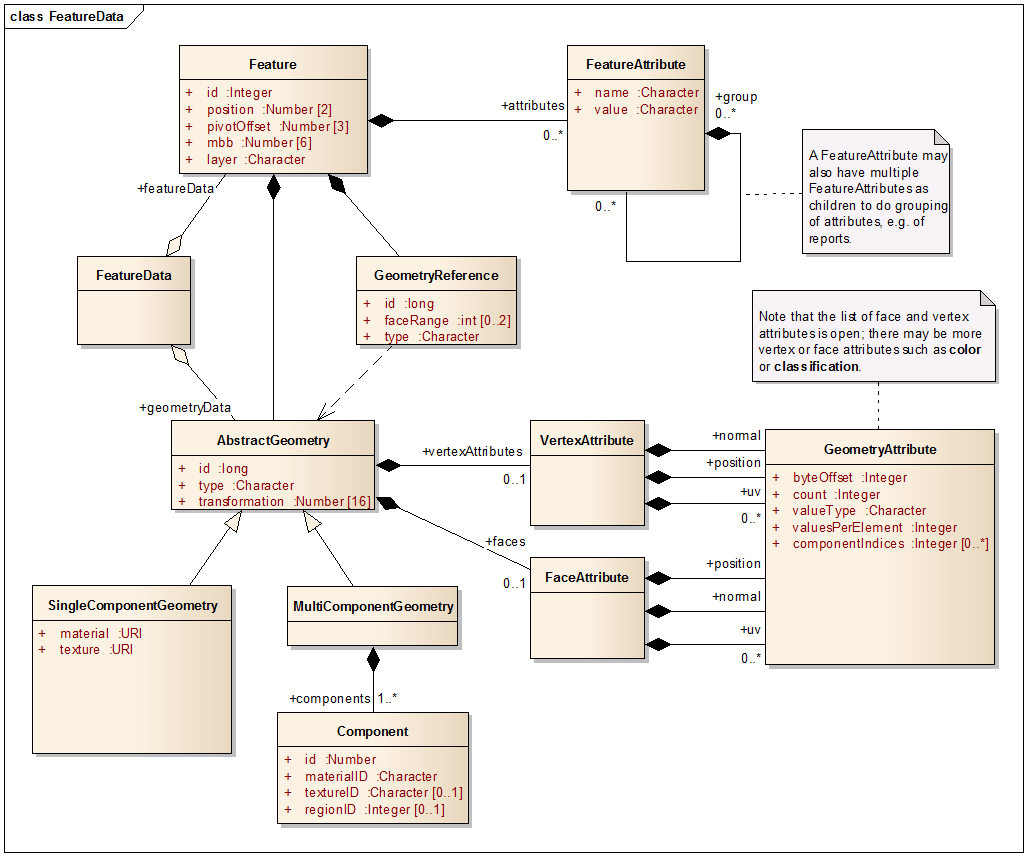
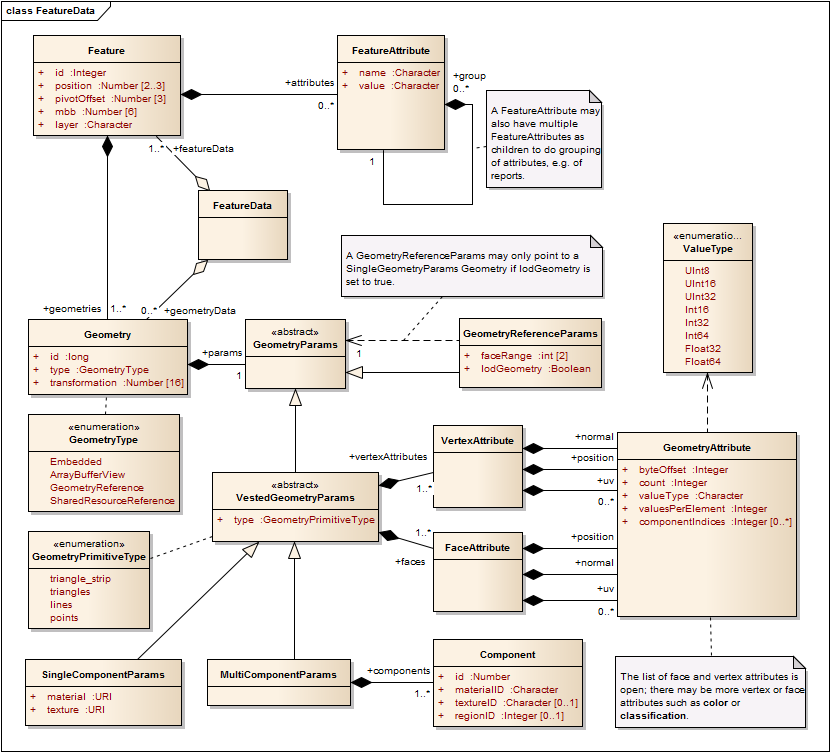
Updated FeatureData specification in format/Indexed 3d Scene Format Specification.md and in rules for features-meshes

diff --git a/profiles/features-meshes/examples/FeatureData.js b/profiles/features-meshes/examples/FeatureData.js
@@ -11,6 +11,7 @@
 			"layer": "Public Building", // links this feature to a defined layer.
 			"geometries": [ // Geometry defintion including materials; note that one Feature can have multiple geometries
 				{
+					"id": 34532534,
 					"type": "ArrayBufferView", // type denotes whether the following geometry is defined by using array buffer views (ArrayBufferView), as a reference to a shared Resource (SharedResourceReference) or embedded (Embedded).
 					"transformation" : [1.0, 0.0, 0.0, 0.0, 0.0, 1.0, 0.0, 0.0, 0.0, 0.0, 1.0, 0.0, 0.0, 0.0, 0.0, 1.0], // linearized 4x4 transformation matrix. Elements 13-15 of the 16 indicate the translational component.
 					"params": { 
@@ -95,8 +96,10 @@
 				}
 			],
 			"attributes": [
-				{
-					"metadata": [ // Special group for default attributes and other metadata.
+				{ // Special group for default attributes and other metadata.
+					"name": "metadata",
+					"value": null,
+					"group": [ 
 						{
 							"name": "OID",
 							"value": 34983

diff --git a/format/Indexed 3d Scene Format Specification.md b/format/Indexed 3d Scene Format Specification.md
@@ -999,8 +999,8 @@ representative of a feature present in the real, geographic world.
 	</tr>
 	<tr>
 		<td>position</td>
-		<td>Float[3]</td>
-		<td>An array of three doubles, giving the x,y,z (easting/northing/elevation) position of this feature's minimum bounding sphere center, in the projectedCRS.</td>
+		<td>Float[2..3]</td>
+		<td>An array of two or three doubles, giving the x,y(,z) (easting/northing/elevation) position of this feature's minimum bounding sphere center, in the projectedCRS.</td>
 	</tr>
 	<tr>
 		<td>pivotOffset</td>
@@ -1017,13 +1017,23 @@ representative of a feature present in the real, geographic world.
 		<td>String</td>
 		<td>The name of the Feature Class this feature belongs to.</td>
 	</tr>
+	<tr>
+		<td>attributes</td>
+		<td>FeatureAttribute[0..*]</td>
+		<td>The list of GIS attributes the feature has.</td>
+	</tr>
+	<tr>
+		<td>geometries</td>
+		<td>Geometry[1..*]</td>
+		<td>The list of geometries the feature has. A feature always has at least one Geometry.</td>
+	</tr>
 </table>
 
 <p><em>Table 14: Attributes of the Class <strong>Feature</strong> within the FeatureData document</em></p>
 
 <h4>Class FeatureAttribute</h4>
 
-<p>A FeatureAttribute is a field carrying a value.</p>
+<p>A FeatureAttribute is a field carrying a value. This value may also be a list of complete attributes, to be used with reports or metadata.</p>
 
 <table>
 	<tr>
@@ -1039,15 +1049,20 @@ representative of a feature present in the real, geographic world.
 	<tr>
 		<td>value</td>
 		<td>String</td>
-		<td>The value of the attribute.</td>
+		<td>The value of the attribute. If group is set and the type of this attribute is set to esriFieldTypeGroup, the value may be used as a label.</td>
+	</tr>
+	<tr>
+		<td>group</td>
+		<td>FeatureAttribute[0..*]</td>
+		<td>A list of FeatureAttributes belonging to a attribute value group.</td>
 	</tr>
 </table>
 
 <p><em>Table 15: Attributes of the Class <strong>FeatureAttribute</strong> within the FeatureData document</em></p>
 
-<h4>Class AbstractGeometry</h4>
+<h4>Class Geometry</h4>
 
-<p>This is the superclass for all types of geometry definitions used in i3s.</p>
+<p>This is the common container class for all types of geometry definitions used in i3s.</p>
 
 <table>
 	<tr>
@@ -1070,21 +1085,103 @@ representative of a feature present in the real, geographic world.
 		<td>Float[16]</td>
 		<td>3D (4x4) transformation matrix expressed as a linear array of 16 values.</td>
 	</tr>
+	<tr>
+		<td>params</td>
+		<td>GeometryParams</td>
+		<td>The parameters for a geometry, as an Embedded GeometryParams object, an ArrayBufferViewa GeometryReference object, or a SharedResourceReference object.</td>
+	</tr>
 </table>
 
-<p><em>Table 16: Attributes of the Class <strong>AbstractGeometry</strong> within the FeatureData document</em></p>
+<p><em>Table 16: Attributes of the Class <strong>Geometry</strong> within the FeatureData document</em></p>
 
-<h4>Class MultiComponentGeometry</h4>
+<h4>Class GeometryParams</h4>
 
-Objects of this type extend AbstractGeometry and include a definition of a geometry that may have
+This is the abstract parent class for all GeometryParams classes (GeometryReferenceParams, VestedGeometryParamas, SingleComponentParams, MultiComponentParams). It does not have properties of its own.
+
+<h4>Class GeometryReferenceParams</h4>
+
+Instead own owning a Geometry exclusively, a Feature can also reference a (part of a) Geometry defined for the node. This allows to pre-aggregate Geometries for many features. In this case, a GeometryReferenceParams has to be used.
+
+<table>
+	<tr>
+		<td><strong>Name</strong></td>
+		<td><strong>Type</strong></td>
+		<td><strong>Description</strong></td>
+	</tr>
+	<tr>
+		<td>$ref</td>
+		<td>Pointer</td>
+		<td>In-document absolute reference to full geometry definition (Embedded or ArrayBufferView) using the <a href="">i3s json pointer</a> syntax.</td>
+	</tr>
+	<tr>
+		<td>faceRange</td>
+		<td>Integer[2]</td>
+		<td>Inclusive range of faces in this geometry that belongs to this feature.</td>
+	</tr>
+	<tr>
+		<td>lodGeometry</td>
+		<td>Boolean</td>
+		<td>True if this geometry participates in a LoD tree (thus, always true in meshpyramids); indicates that the referenced Geometry has no components and only a single material.</td>
+	</tr>
+</table>
+
+<p><em>Table 17: Attributes of the Class <strong>GeometryReferenceParams</strong> within the FeatureData document</em></p>
+
+<h4>Class VestedGeometryParams</h4>
+
+<p>This Class extends GeometryParams and is the abstract parent class for all concrete ("vested") GeometryParams classes that directly contain a Geometry definition, either as an ArrayBufferView or as an Embedded Geometry, with either SingleComponentParams or MultiComponentParams.</p>
+
+<table>
+	<tr>
+		<td><strong>Name</strong></td>
+		<td><strong>Type</strong></td>
+		<td><strong>Description</strong></td>
+	</tr>
+	<tr>
+		<td>type</td>
+		<td>String</td>
+		<td>The primitive type of the geoemtry defined through a VestedGeometryParams object. One of {*triangles*, lines, points, triangle_strip}</td>
+	</tr>
+	<tr>
+		<td>vertexAttributes</td>
+		<td>VertexAttribute[1..*]</td>
+		<td>A list of Vertex Attributes, such as Position, Normals, UV coordinates, and their definitions. 
+		While there are standard keywords such as <code>position</code>, <code>uv0..uv9</code>, <code>normal</code> and <code>color</code>, this is an open, extendable list.</td>
+	</tr>
+	<tr>
+		<td>faces</td>
+		<td>FaceAttribute[0..*]</td>
+		<td>A list of Face Attributes, such as indices to build faces, and their definitions. 
+		While there are standard keywords such as <code>position</code>, <code>uv0..uv9</code>, <code>normal</code> and <code>color</code>, this is an open, extendable list.</td>
+	</tr>
+</table>
+
+<p><em>Table 18: Attributes of the Class <strong>VestedGeometryParams</strong> within the FeatureData document</em></p>
+
+<h4>Class MultiComponentParams</h4>
+
+<p>Objects of this type extend VestedGeometryParams and include a definition of a geometry that may have
 multiple materials, textures, or use multiple regions from a texture. One
-Feature can have multiple geometries, which can consist of multiple components.
-They do not have additional fields, only references to <a href="#_7_4_Components">Components</a>.</p>
+Feature can have multiple geometries, which can consist of multiple components.</p>
 
+<table>
+	<tr>
+		<td><strong>Name</strong></td>
+		<td><strong>Type</strong></td>
+		<td><strong>Description</strong></td>
+	</tr>
+	<tr>
+		<td>components</td>
+		<td>Component[1..*]</td>
+		<td>A MultiComponentParams geometry can have multiple components, e.g. to assign multiple materials (i.e. glass for windows, brick texture for walls, ...). Not used with LoD aggregate geometries.</td>
+	</tr>
+</table>
+
+<p><em>Table 19: Attributes of the Class <strong>MultiComponentParams</strong> within the FeatureData document</em></p>
+	
 <h4>Class SingleComponentGeometry</h4>
 
-Objects of this type extend AbstractGeometry and use only one texture and one material. Components may
-only be declared to denote subimage regions.</p>
+Objects of this type extend VestedGeometryParams and use only one texture and one material. They do not contain components.</p>
 
 <table>
 	<tr>
@@ -1104,7 +1201,7 @@ only be declared to denote subimage regions.</p>
 	</tr>
 </table>
 
-<p><em>Table 17: Attributes of the Class <strong>FeatureAttribute</strong> within the FeatureData document</em></p>
+<p><em>Table 20: Attributes of the Class <strong>FeatureAttribute</strong> within the FeatureData document</em></p>
 
 <h4><a name="_7_4_Components">Class Component</a></h4>
 
@@ -1139,7 +1236,7 @@ belong to, specifically with which material and texture to render them.</p>
 	</tr>
 </table>
 
-<p><em>Table 18: Attributes of the Class <strong>Component</strong> within the FeatureData document</em></p>
+<p><em>Table 21: Attributes of the Class <strong>Component</strong> within the FeatureData document</em></p>
 
 <h4>Class GeometryAttribute</h4>
 
@@ -1182,7 +1279,7 @@ which vertex positions make up a face.</p>
 	</tr>
 </table>
 
-<p><em>Table 19: Attributes of the Class <strong>FeatureAttribute</strong> within the FeatureData document</em></p>
+<p><em>Table 22: Attributes of the Class <strong>FeatureAttribute</strong> within the FeatureData document</em></p>
 
 <h3><a name="_7_5">SharedResources.js</a></h3>
 
@@ -1267,7 +1364,7 @@ attributes and params for the <code>"type": "Standard"</code> material.</p>
 	</tr>
 </table>
 
-<p><em>Table 20: Attributes of the Class <strong>Material</strong> within the SharedResources document</em></p>
+<p><em>Table 23: Attributes of the Class <strong>Material</strong> within the SharedResources document</em></p>
 
 <h4>Class Texture</h4>
 
@@ -1307,7 +1404,7 @@ geometries.</p>
 	</tr>
 </table>
 
-<p><em>Table 21: Attributes of the Class <strong>Texture</strong> within the SharedResources document</em></p>
+<p><em>Table 24: Attributes of the Class <strong>Texture</strong> within the SharedResources document</em></p>
 
 <h4>Class Image</h4>
 
@@ -1353,7 +1450,7 @@ For details on texture organisation, please refer to the section on <a href="#_7
 	</tr>
 </table>
 
-<p><em>Table 22: Attributes of the Class <strong>Image</strong> within the SharedResources document</em></p>
+<p><em>Table 25: Attributes of the Class <strong>Image</strong> within the SharedResources document</em></p>
 
 <h4>Class ShaderDefinition</h4>
 
